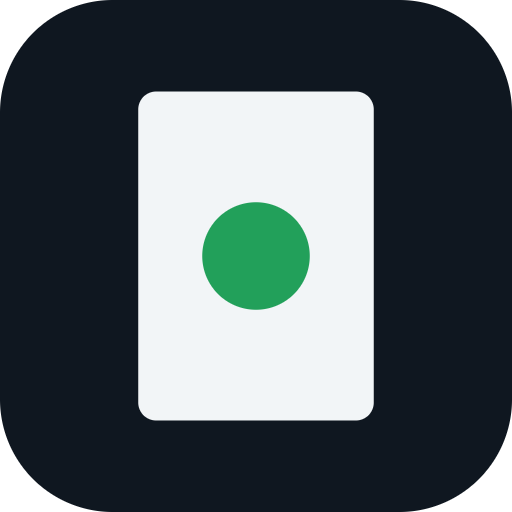
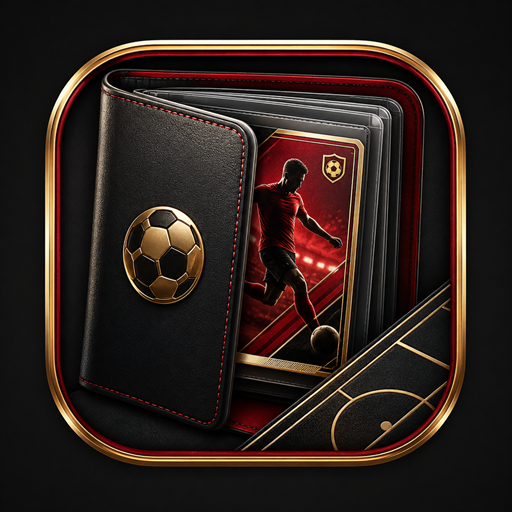
feat: アプリアイコンを差し替え
黒革のバインダーとカードのアートに変更。元画像 dev/icon-source.png から
dev/gen_icons.ps1 で4枚を生成する（Pillowを入れずに済むよう System.Drawing）。

maskableだけは内側70%に収めて地色を全面に敷き、円・角丸どのマスクでも
金の枠が欠けないようにした。any と apple-touch-icon はフルブリード。

差し替えに合わせて sw.js の CACHE_NAME を v3 に上げ、古い殻を捨てさせる。

diff --git a/sw.js b/sw.js
@@ -9,7 +9,7 @@
  * 最終取得の内容は js/cache.js が localStorage に持つ。
  */
 
-const CACHE_NAME = 'soccer-cards-shell-v2';
+const CACHE_NAME = 'soccer-cards-shell-v3';
 
 /**
  * インストール時に取っておくアプリ殻。

diff --git a/README.md b/README.md
@@ -48,9 +48,26 @@ js/render.js               データ → DOM（ビュー層）
 js/confirm.js              画面内の確認パネル（window.confirm の代わり）
 manifest.webmanifest       PWAマニフェスト（パスはすべて相対。GitHub Pagesのサブパス配信のため）
 sw.js                      Service Worker（ネットワーク優先の最小構成）
-icons/                     アイコン一式
+icons/                     アイコン一式（dev/gen_icons.ps1 で生成）
 dev/                       開発用。アプリ本体からは読み込まれない
 ```
+
+### アイコン
+
+`dev/icon-source.png`（正方形の元画像）から4枚を作る。
+
+```powershell
+powershell -ExecutionPolicy Bypass -File dev/gen_icons.ps1
+```
+
+| ファイル | 用途 | 作り方 |
+|---|---|---|
+| `icon-192.png` / `icon-512.png` | manifest の `purpose: any`、ブラウザのタブ | 元画像をそのまま縮小 |
+| `apple-touch-icon-180.png` | iOSのホーム画面 | 同上。iOS側が角丸マスクをかけるが、金の枠は内側に十分入っているので切れない |
+| `icon-512-maskable.png` | manifest の `purpose: maskable` | 内側70%に収め、地色を全面に敷く（円・角丸・しずく、どのマスクでも欠けない） |
+
+差し替えたら **`sw.js` の `CACHE_NAME` を1つ上げる**（古い殻のキャッシュを掴ませないため）。
+iOSのホーム画面に追加済みのアイコンは自動では変わらないので、一度削除して追加し直す。
 
 ### 設計上の約束ごと
 
